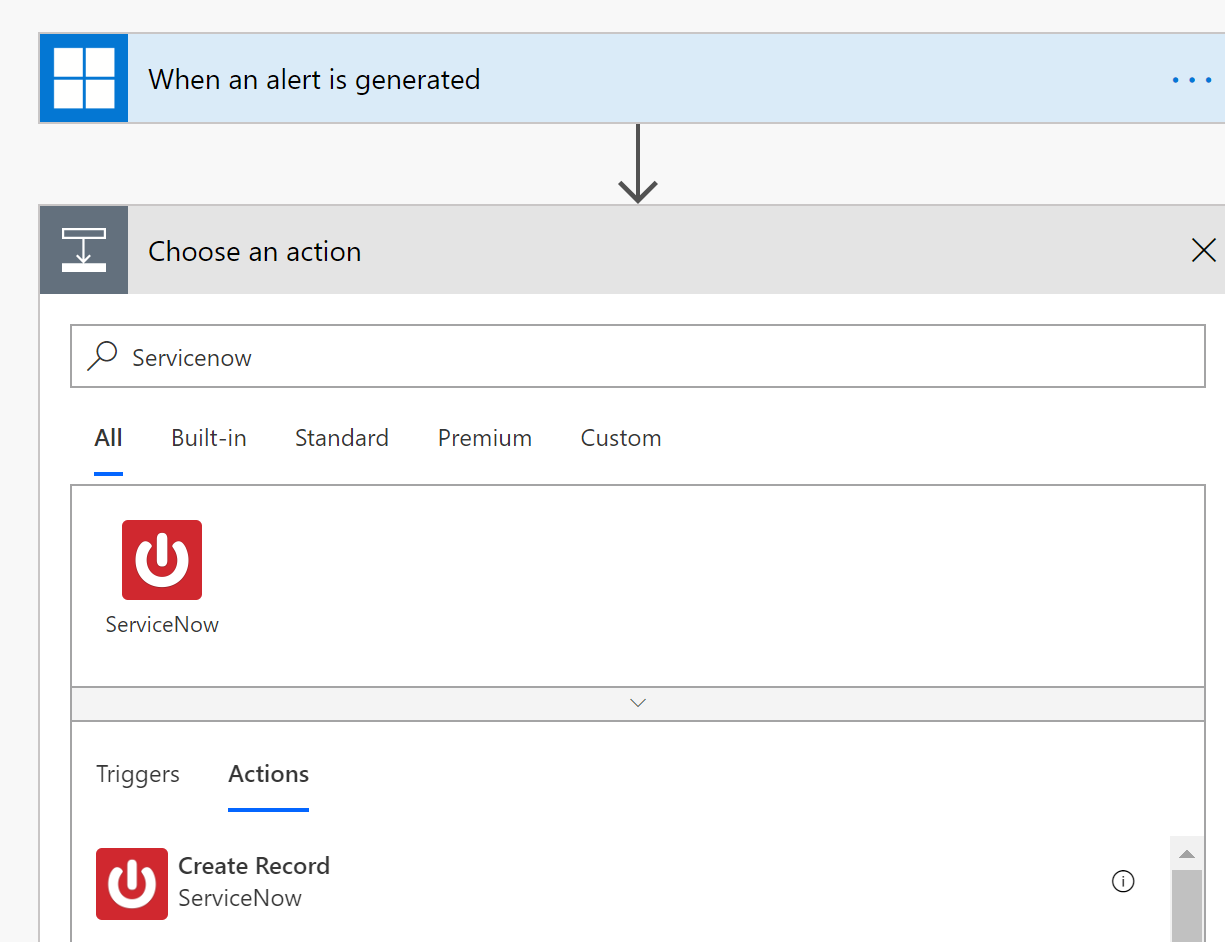
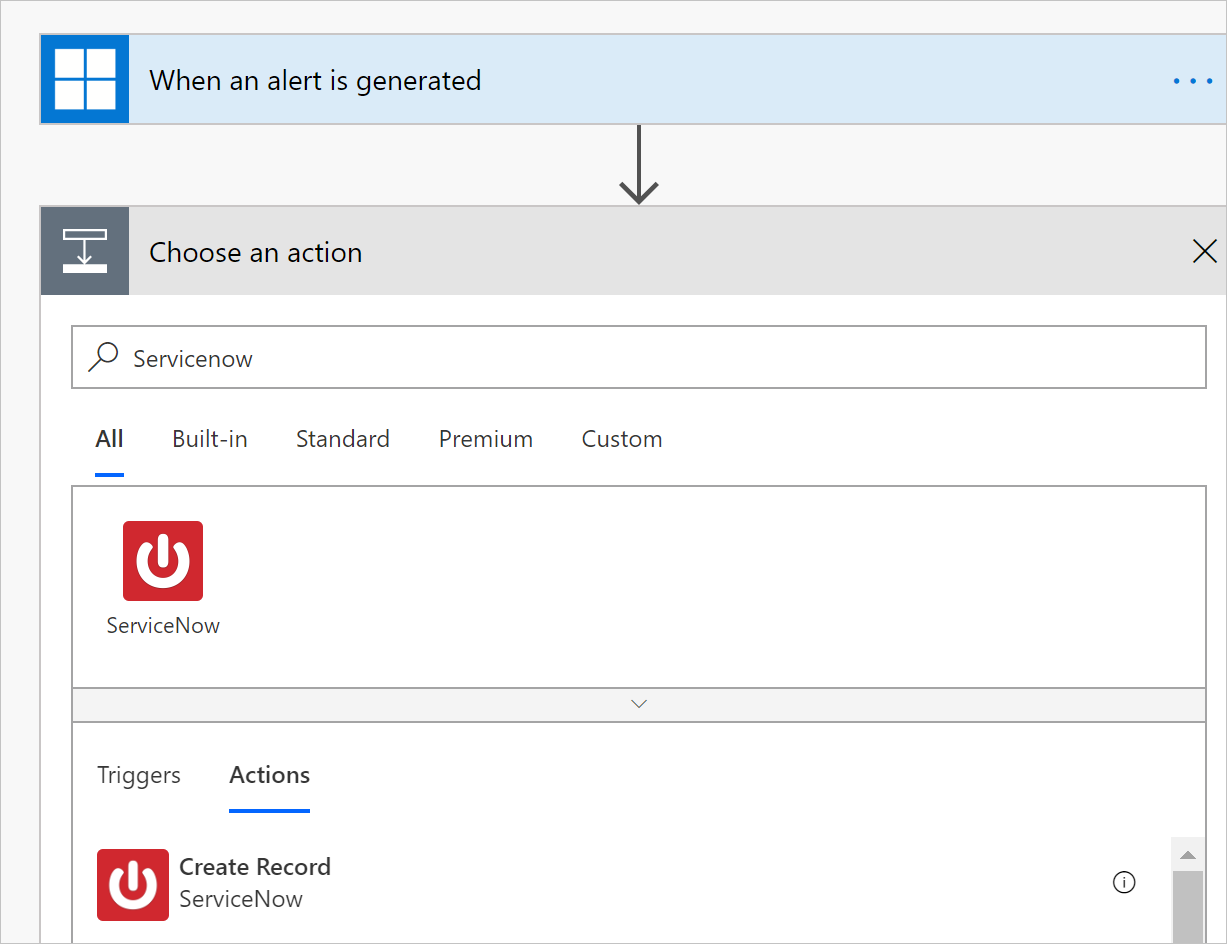
more steps

diff --git a/CloudAppSecurityDocs/flow-integration.md b/CloudAppSecurityDocs/flow-integration.md
@@ -36,7 +36,7 @@ The [Cloud App Security connector](/connectors/cloudappsecurity/) in Power Autom
 
     ![Power Automate add token](media/add-token.png)
 
-5. Define the workflow that should be triggered when a policy in Cloud App Security generates an alert. You can add an action, logical condition, switch case conditions or loops and save the playbook.
+5. Select **+New step** to define the workflow that should be triggered when a policy in Cloud App Security generates an alert. You can add an action, logical condition, switch case conditions or loops and save the playbook. In this example, we'll be adding a [ServiceNow connector](/connectors/service-now/).
 
     ![Power Automate workflow](media/flow-workflow.png)
 
